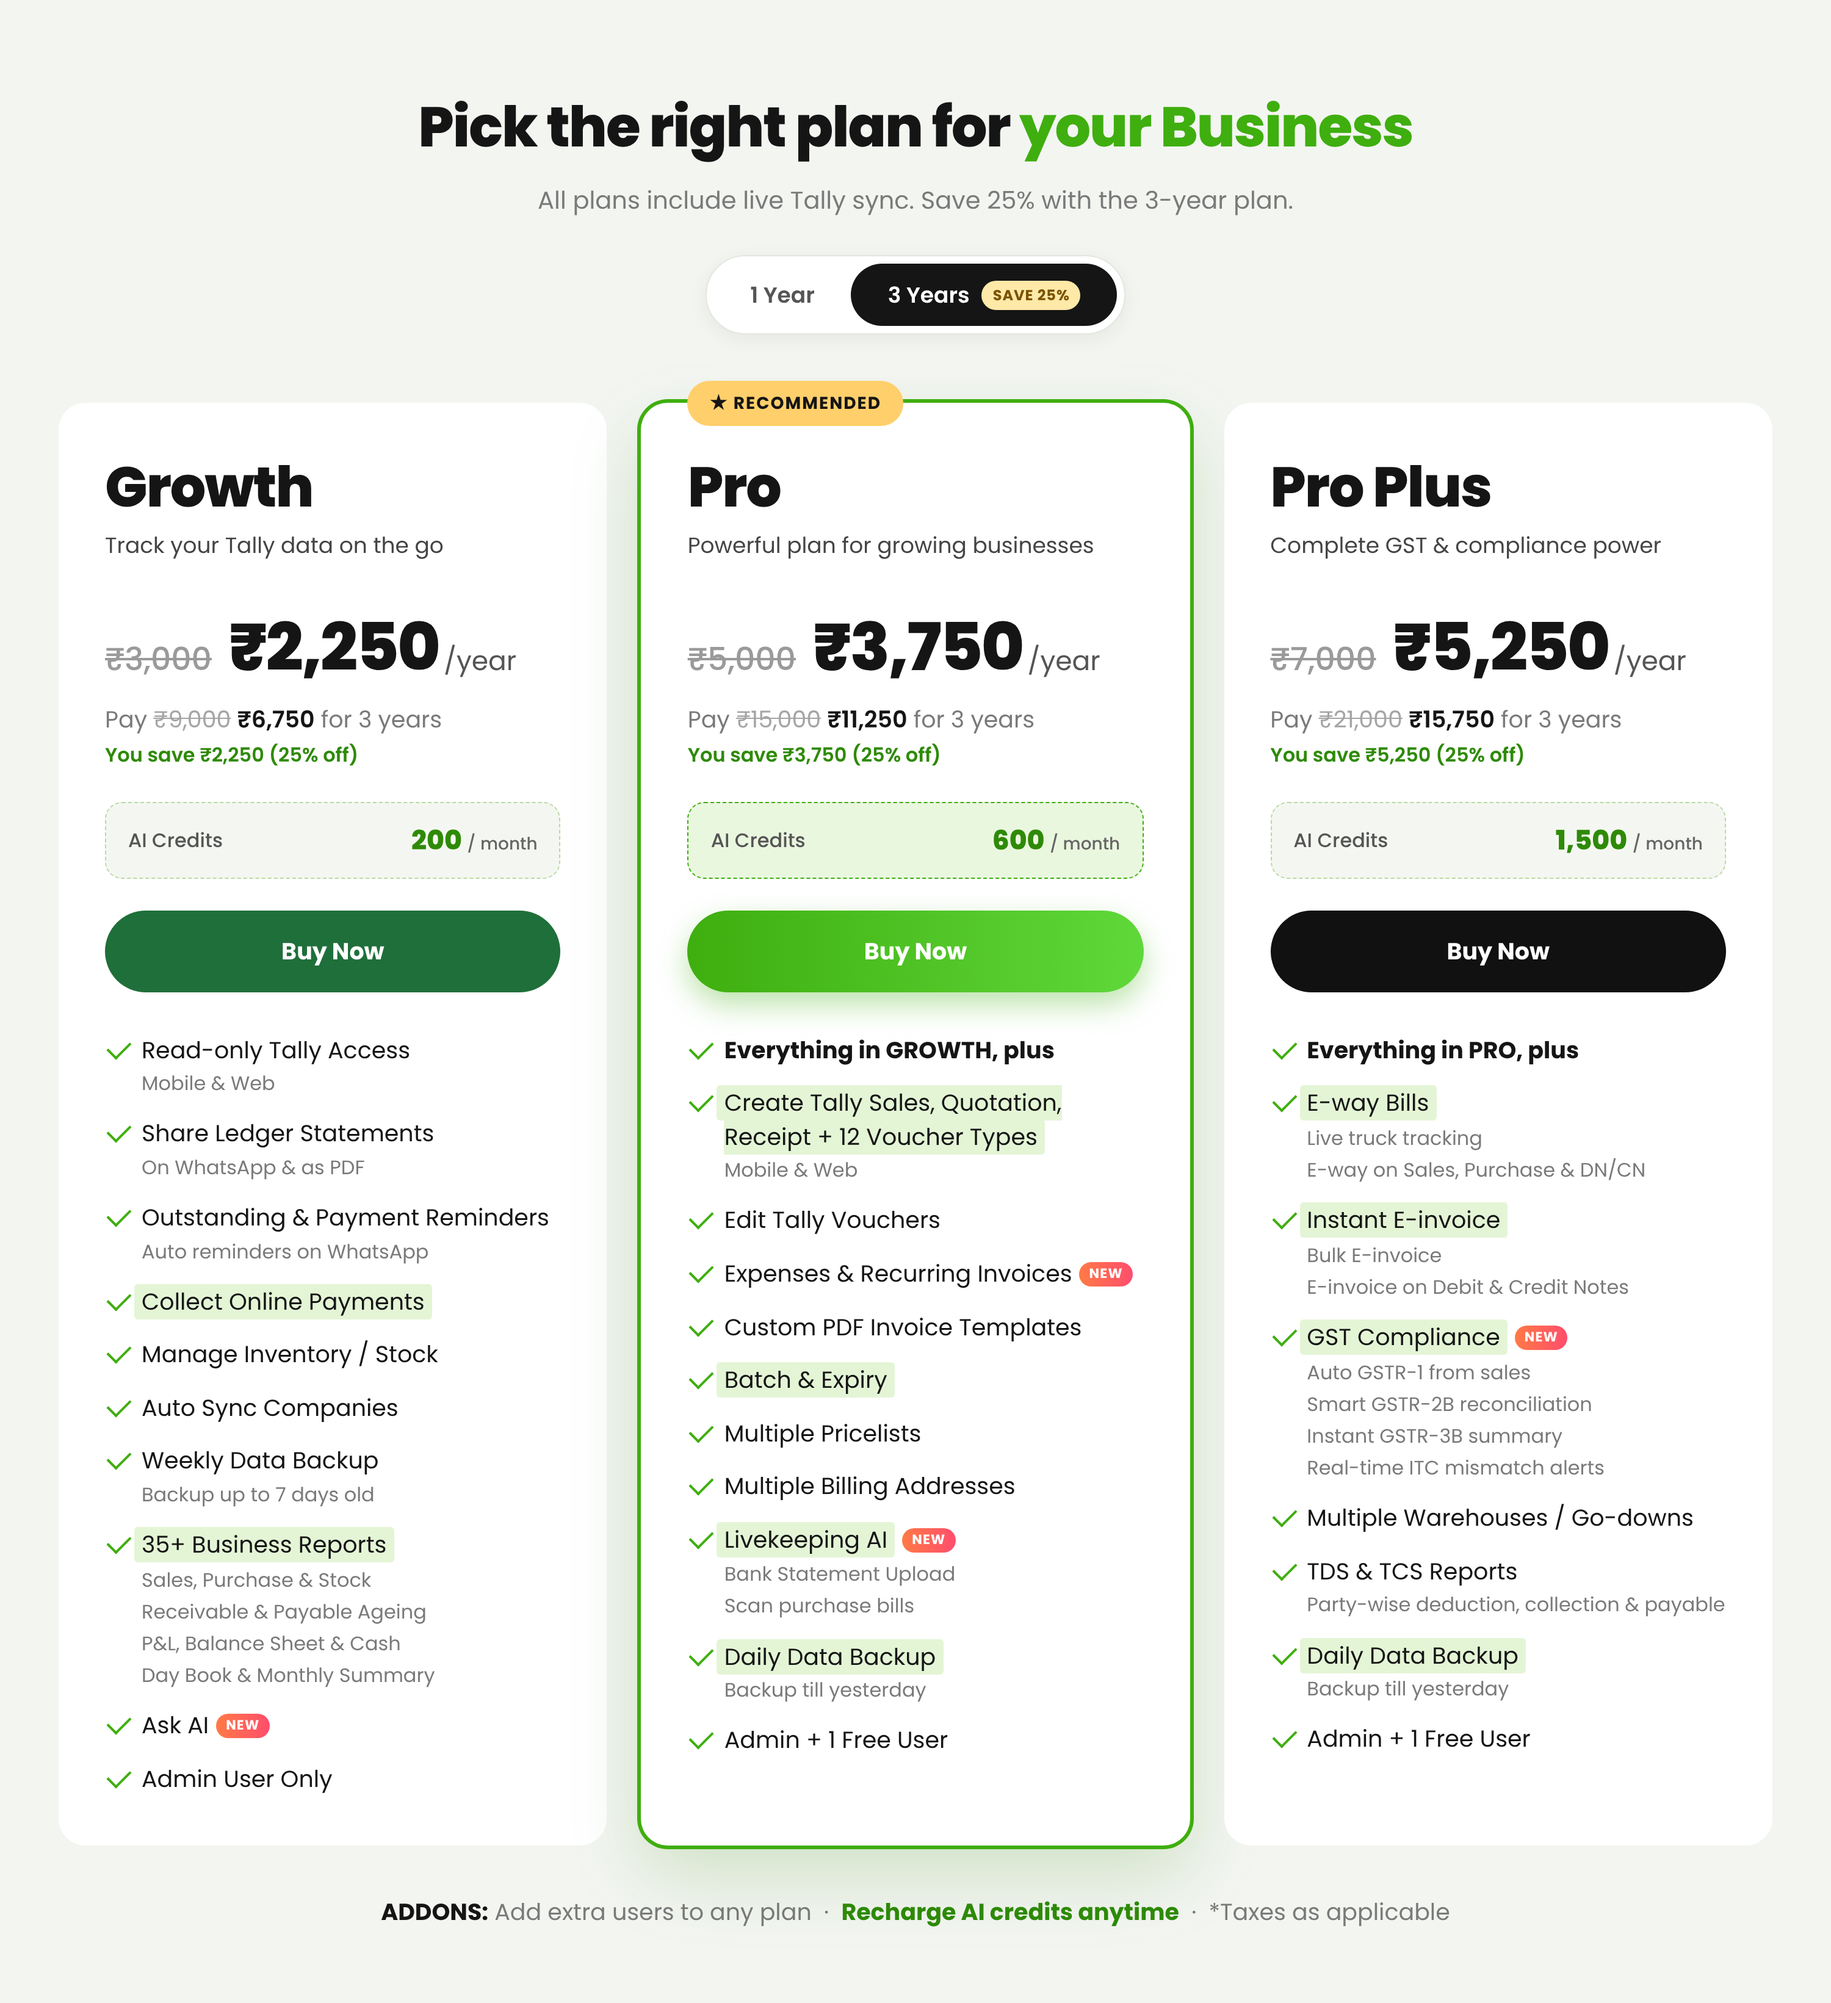
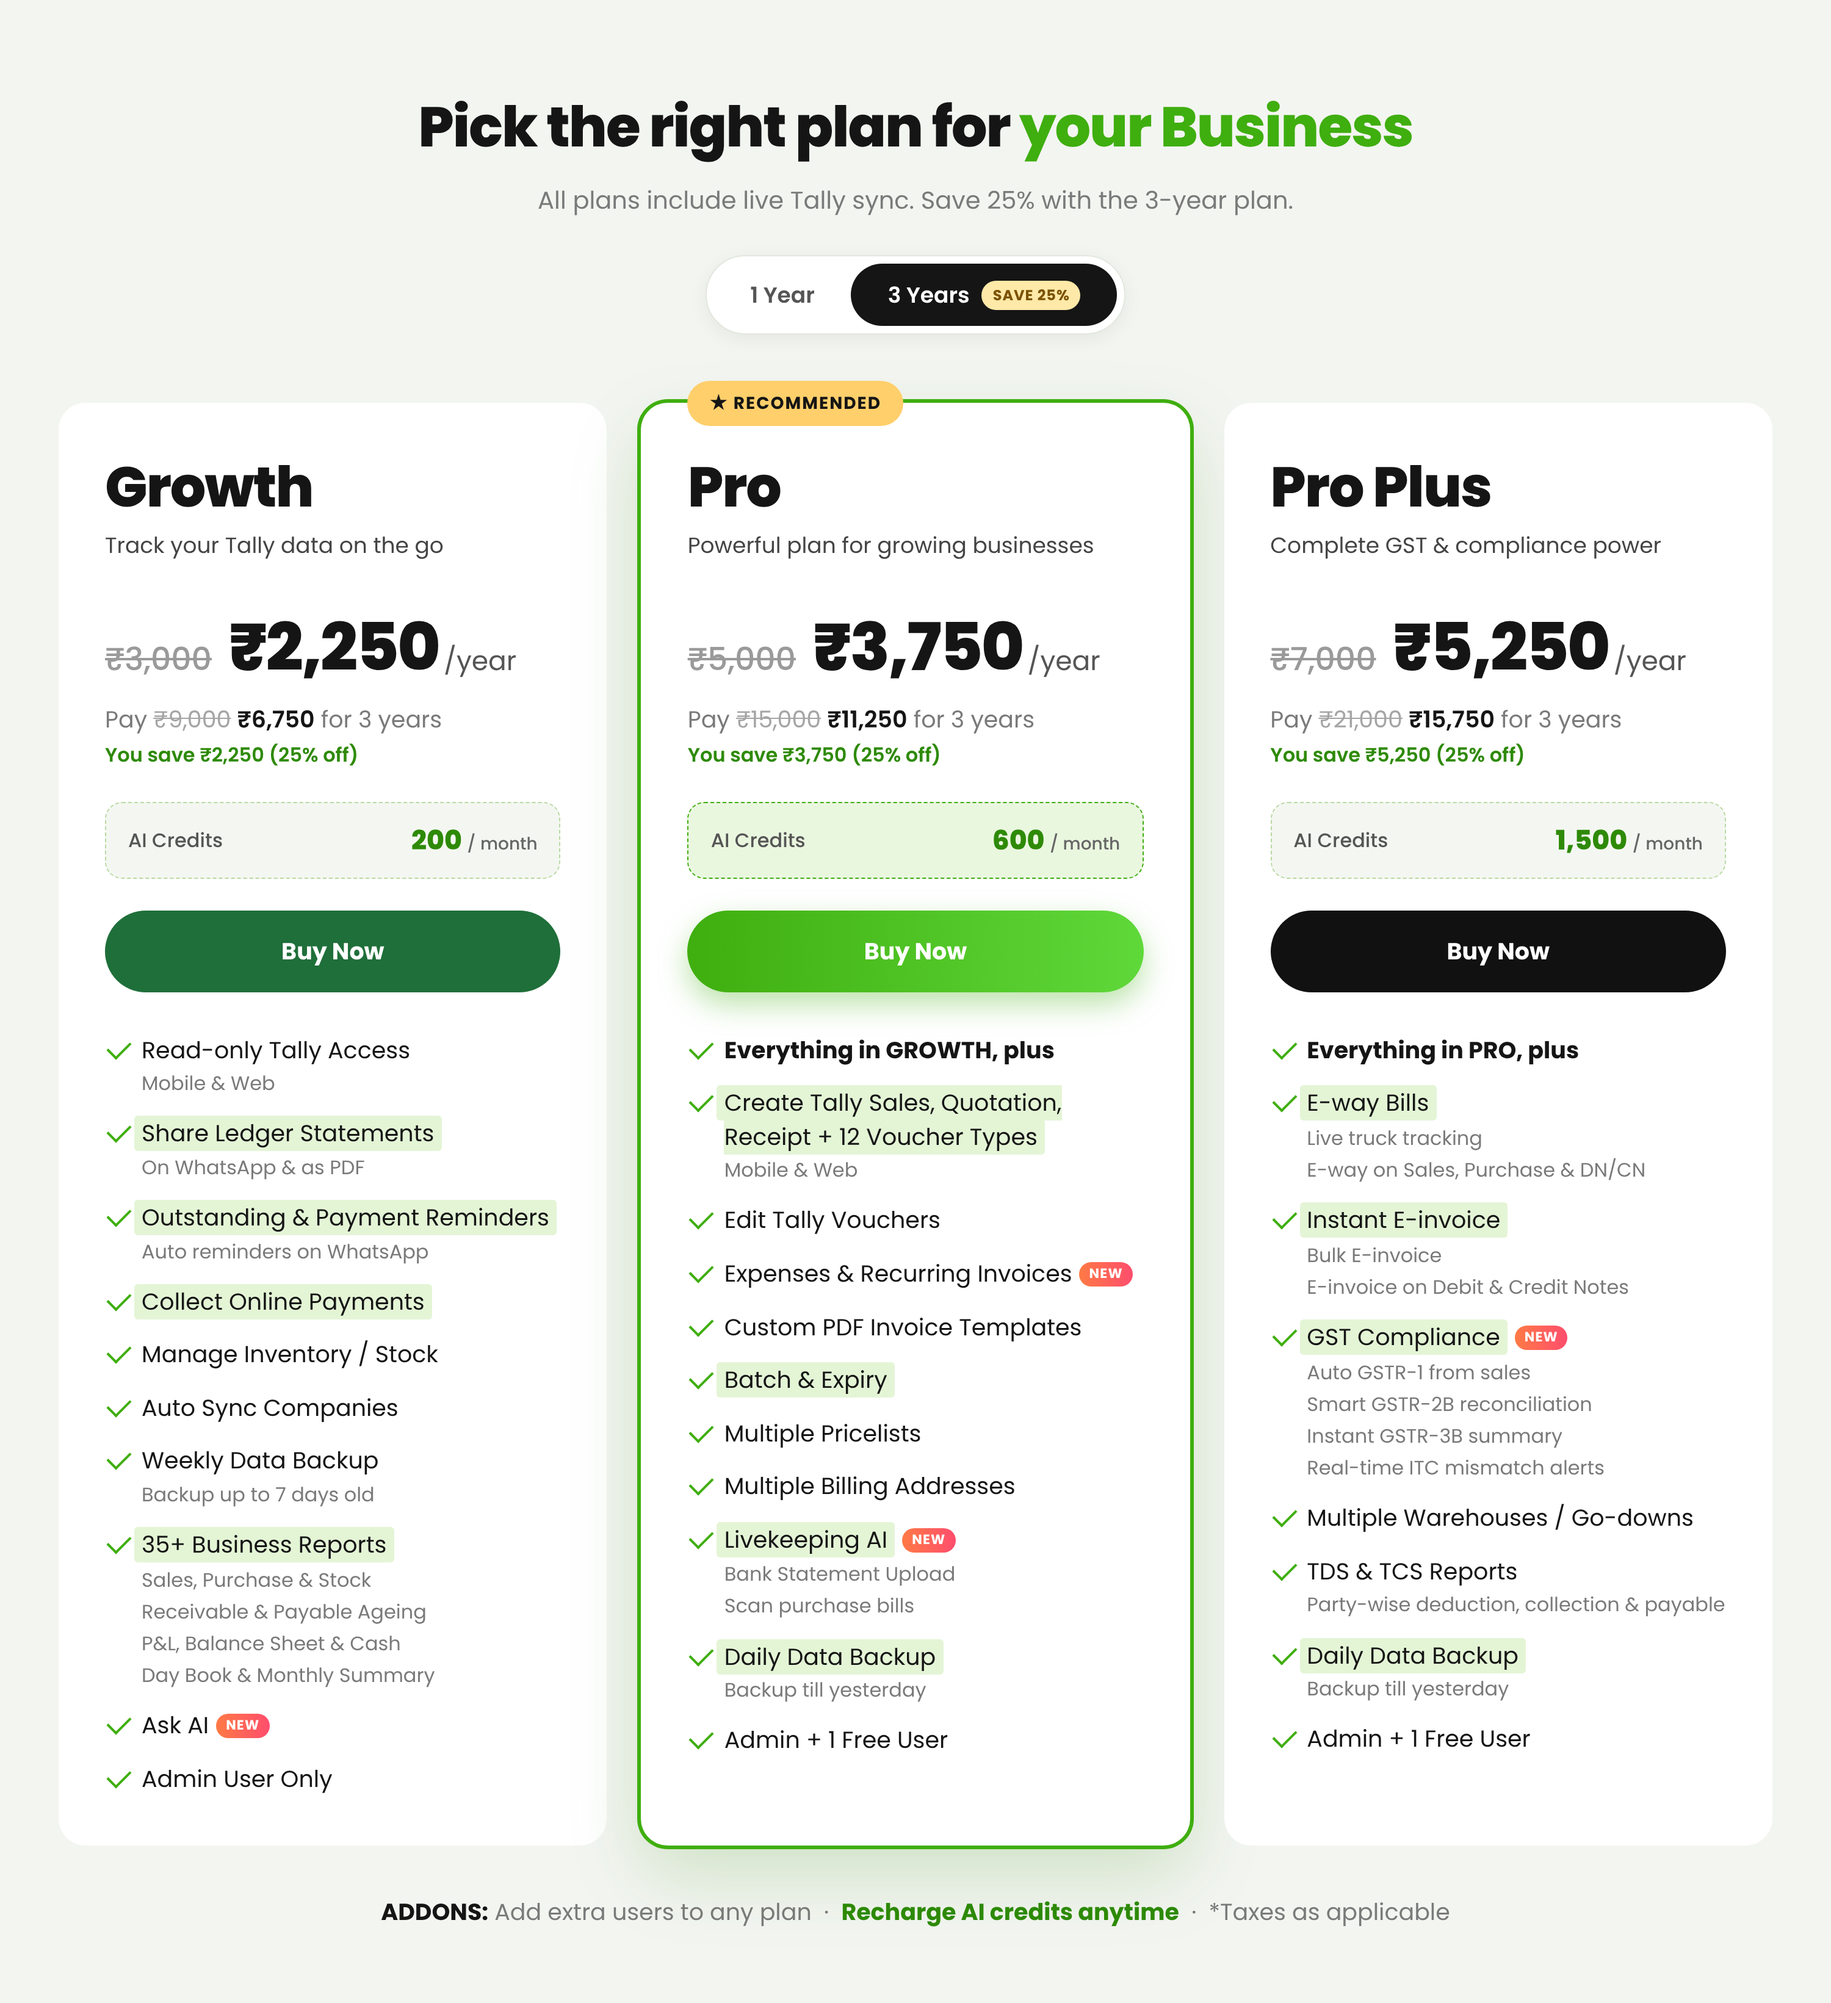
Pricing cards: highlight ledger and outstanding points in Growth
Claude-Session: https://claude.ai/code/session_01TUFe6273V25gsCzznixesV

Changed region(s): [[0.062, 0.5594, 0.31, 0.6216]]

diff --git a/livekeeping-pricing/cards.html b/livekeeping-pricing/cards.html
@@ -147,8 +147,8 @@
       <div class="btn">Buy Now</div>
       <ul>
         <li><div>Read-only Tally Access<span class="note">Mobile &amp; Web</span></div></li>
-        <li><div>Share Ledger Statements<span class="note">On WhatsApp &amp; as PDF</span></div></li>
-        <li><div>Outstanding &amp; Payment Reminders<span class="note">Auto reminders on WhatsApp</span></div></li>
+        <li><div><span class="hl">Share Ledger Statements</span><span class="note">On WhatsApp &amp; as PDF</span></div></li>
+        <li><div><span class="hl">Outstanding &amp; Payment Reminders</span><span class="note">Auto reminders on WhatsApp</span></div></li>
         <li><div><span class="hl">Collect Online Payments</span></div></li>
         <li><div>Manage Inventory / Stock</div></li>
         <li><div>Auto Sync Companies</div></li>
